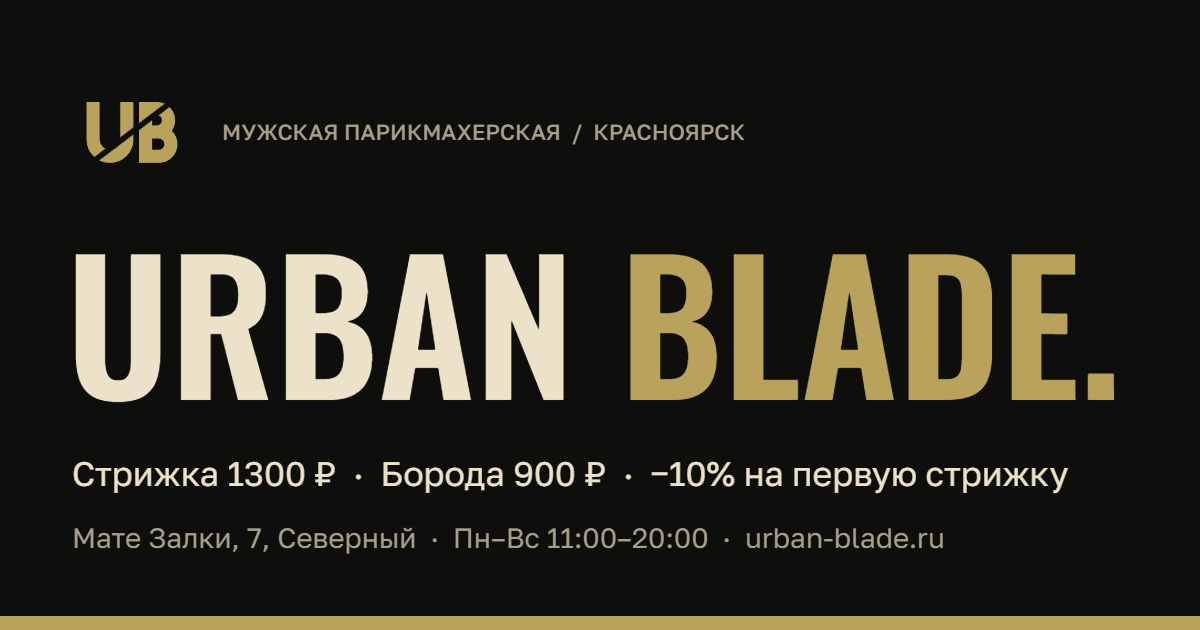
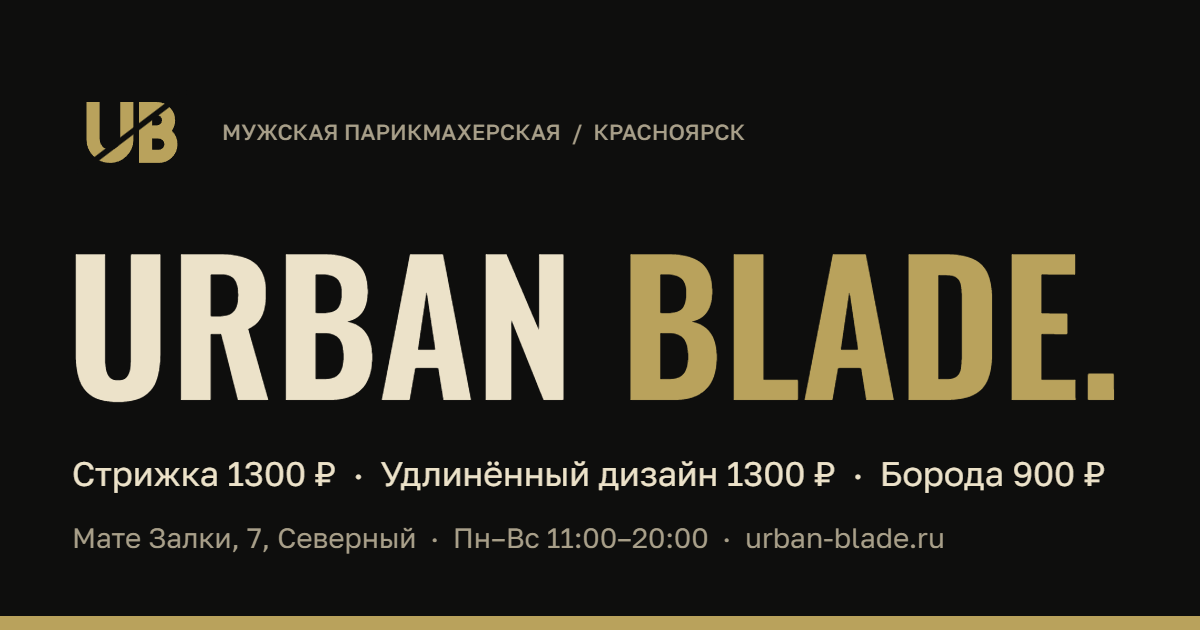
Add files via upload

Changed region(s): [[0.3083, 0.7238, 0.925, 0.7841]]

diff --git a/index.html b/index.html
@@ -5,14 +5,14 @@
 <meta name="viewport" content="width=device-width, initial-scale=1, viewport-fit=cover">
 <meta name="theme-color" content="#0e0e0d">
 <title>Барбершоп Urban Blade — мужская стрижка в Красноярске, Северный</title>
-<meta name="description" content="Мужская стрижка 1300 ₽, удлинённый дизайн 1300 ₽, оформление бороды 900 ₽. Северный, ул. Мате Залки, 7. Ежедневно 11:00–20:00. Онлайн-запись и −10% на первую стрижку.">
+<meta name="description" content="Мужская стрижка 1300 ₽, удлинённый дизайн 1300 ₽, оформление бороды 900 ₽. Северный, ул. Мате Залки, 7. Ежедневно 11:00–20:00. Онлайн-запись.">
 <link rel="canonical" href="https://urban-blade.ru/">
 <meta property="og:type" content="website">
 <meta property="og:site_name" content="Urban Blade">
 <meta property="og:locale" content="ru_RU">
 <meta property="og:url" content="https://urban-blade.ru/">
 <meta property="og:title" content="Барбершоп Urban Blade — мужская стрижка в Красноярске">
-<meta property="og:description" content="Стрижка 1300 ₽, борода 900 ₽, −10% на первую стрижку. Северный, Мате Залки, 7. Онлайн-запись.">
+<meta property="og:description" content="Стрижка 1300 ₽, удлинённый дизайн 1300 ₽, борода 900 ₽. Северный, Мате Залки, 7. Онлайн-запись.">
 <meta property="og:image" content="https://urban-blade.ru/og.png">
 <meta property="og:image:width" content="1200">
 <meta property="og:image:height" content="630">
@@ -140,12 +140,6 @@ img { display: block; max-width: 100%; }
 .svc p { grid-column: 1 / -1; color: var(--muted); font-size: 15px; }
 .svc .go { grid-column: 1 / -1; font-size: 14px; font-weight: 500; padding-top: 6px; }
 
-.offer { margin-top: 56px; background: var(--gold); color: var(--ink); padding-block: 34px 38px; }
-.offer b { display: block; font: 600 38vw/.92 var(--display); letter-spacing: -.01em; }
-.offer h2 { font: 500 32px/1.05 var(--display); text-transform: uppercase; padding-top: 8px; }
-.offer p { padding-top: 10px; font-size: 17px; }
-.offer .btn { margin-top: 20px; }
-
 .gallery-head { display: grid; gap: 8px; }
 .gallery { display: flex; gap: 10px; overflow-x: auto; margin: 24px calc(-1 * var(--pad)) 0; padding: 0 var(--pad); scroll-snap-type: x mandatory; scroll-padding-left: var(--pad); scrollbar-width: none; }
 .gallery::-webkit-scrollbar { display: none; }
@@ -220,9 +214,6 @@ img { display: block; max-width: 100%; }
   .svc .price { font-size: 36px; text-align: right; }
   .svc p { grid-column: auto; }
   .svc .go { display: none; }
-  .offer .wrap { display: grid; grid-template-columns: auto 1fr; gap: 56px; align-items: center; }
-  .offer b { font-size: 220px; }
-  .offer .btn { width: auto; display: inline-flex; gap: 24px; }
   .gallery { margin-inline: 0; padding-inline: 0; display: grid; grid-template-columns: 1fr 1fr; overflow: visible; }
   .shot { width: auto; }
   .panel { margin-inline: 0; border: 1px solid var(--line); padding: 40px; grid-template-columns: 1fr 1.6fr; gap: 40px; align-items: start; }
@@ -248,7 +239,6 @@ img { display: block; max-width: 100%; }
     <a class="mark" href="#top"><svg viewBox="0 0 64 64" aria-hidden="true"><rect width="64" height="64" fill="#0e0e0d"/><g fill="none" stroke="#b9a25c" stroke-width="7" transform="translate(1.25 0)"><path d="M10 16V36a9 9 0 0 0 18 0V16"/><path d="M38 16V48.5M38 19.5H44a6.25 6.25 0 0 1 0 12.5H38M38 32H45a6.5 6.5 0 0 1 0 13H38"/></g><path d="M3 54 61 10" stroke="#0e0e0d" stroke-width="3"/></svg><span class="mark-text">Urban <span>Blade</span></span></a>
     <nav class="nav" aria-label="Разделы">
       <a href="#services">Услуги</a>
-      <a href="#offer">Скидка</a>
       <a href="#inside">Внутри</a>
       <a href="#reviews">Отзывы</a>
       <a href="#visit">Адрес</a>
@@ -282,7 +272,6 @@ img { display: block; max-width: 100%; }
     <ul class="facts label">
       <li>Стрижка 1300 ₽</li>
       <li>Борода 900 ₽</li>
-      <li>−10% на первую стрижку</li>
       <li>Мате Залки, 7, 2 этаж</li>
       <li>Вход через СДЭК</li>
     </ul>
@@ -297,17 +286,6 @@ img { display: block; max-width: 100%; }
     <li><a href="#visit"><h3>Удлинённый дизайн</h3><b class="price">1300 ₽</b><p>Стрижка для тех, кто носит длину: форма и контур без потери длины.</p><span class="go">Записаться →</span></a></li>
     <li><a href="#visit"><h3>Оформление бороды</h3><b class="price">900 ₽</b><p>Форма, линии и длина бороды в одном стиле со стрижкой.</p><span class="go">Записаться →</span></a></li>
   </ul>
-</section>
-
-<section id="offer" class="offer">
-  <div class="wrap">
-    <b>−10%</b>
-    <div>
-      <h2>Скидка на первую стрижку</h2>
-      <p>Первая мужская стрижка у нас стоит 1170&nbsp;₽ вместо 1300&nbsp;₽.</p>
-      <a class="btn dark" href="#visit">Записаться <span class="arrow">↗</span></a>
-    </div>
-  </div>
 </section>
 
 <section id="inside" class="section wrap">
